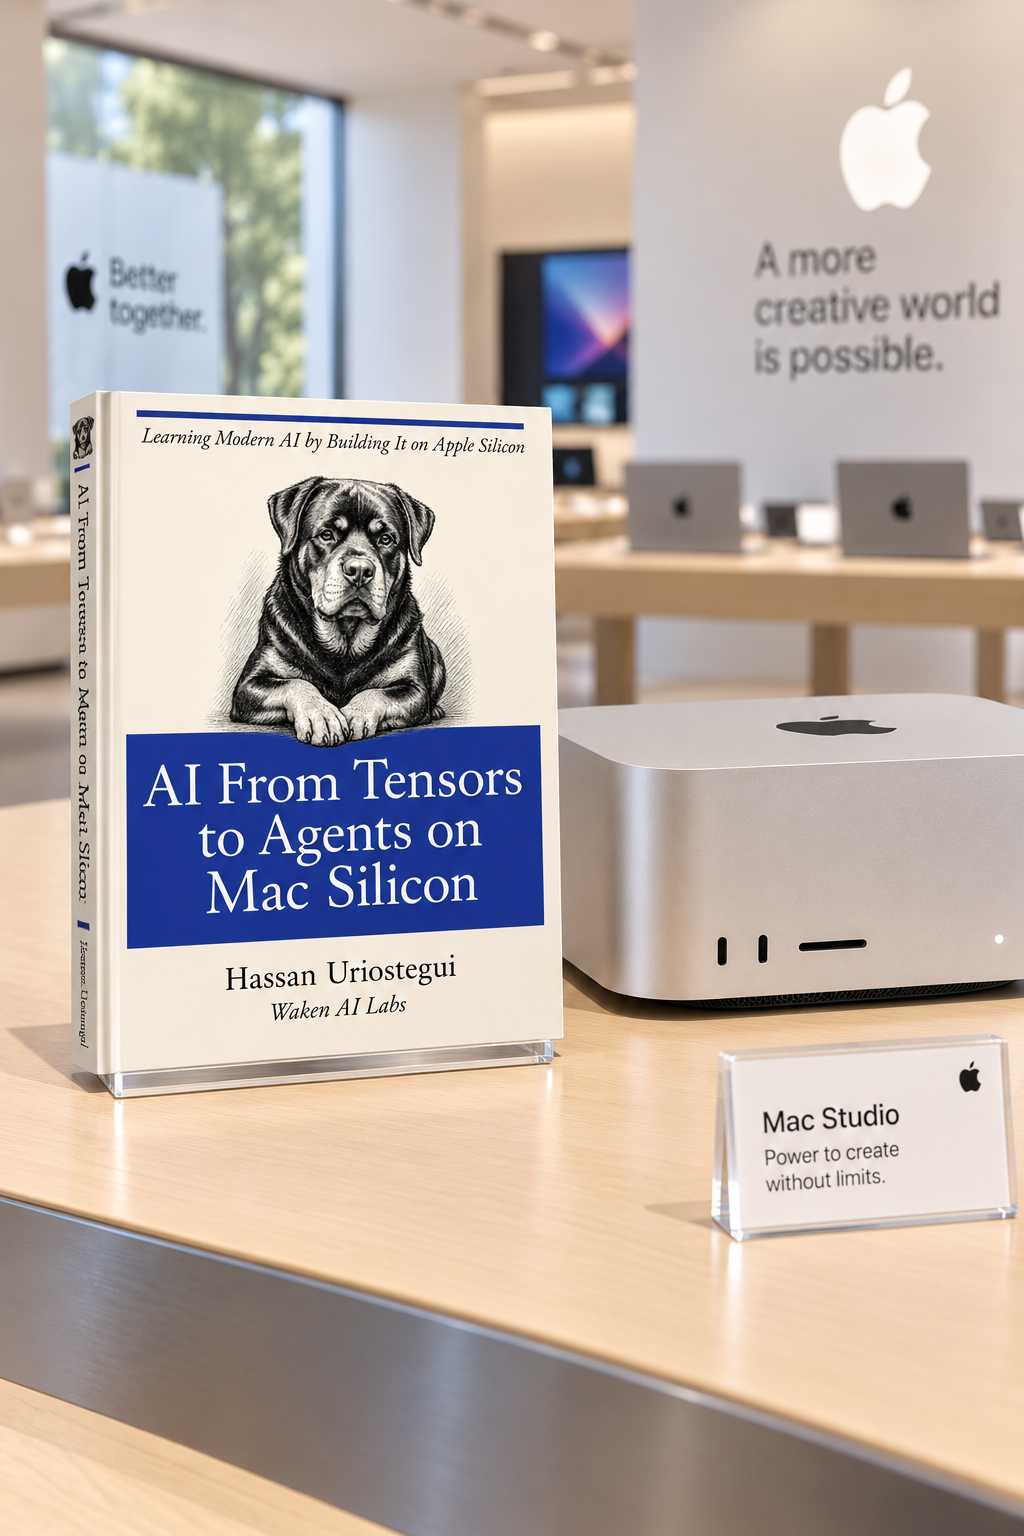
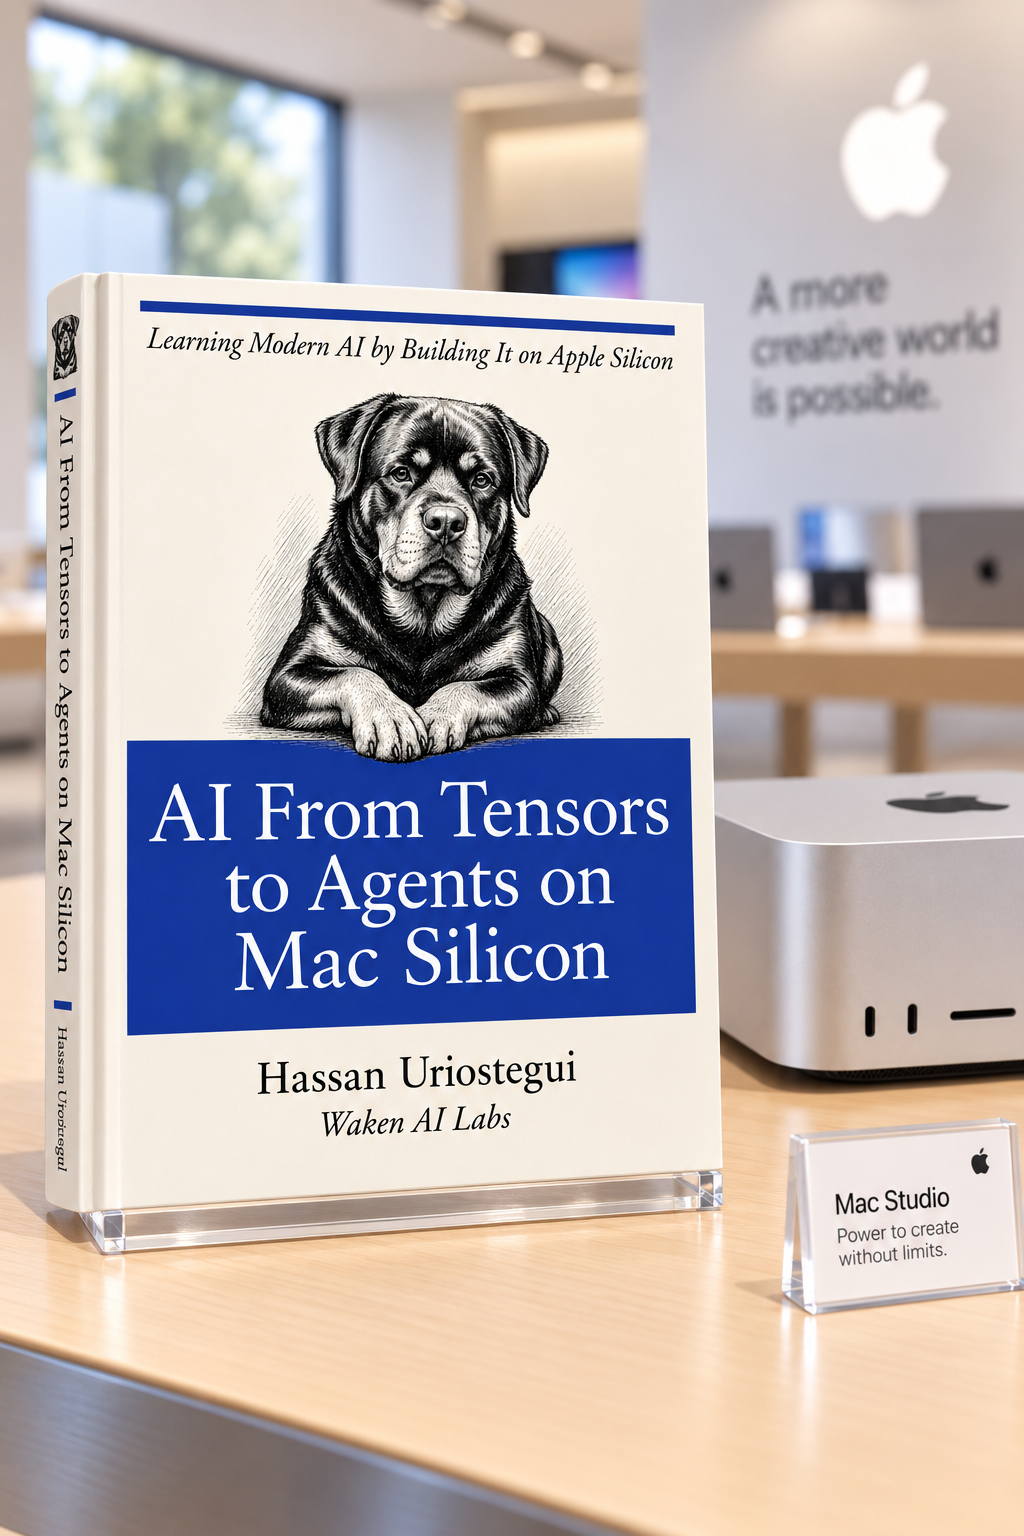
Differentiate Sparks callouts and refresh Mac Silicon cover

diff --git a/index.html b/index.html
@@ -4386,6 +4386,45 @@ h1, h2, h3, h4, .identity-mark { font-family: var(--font-display) !important; }
   .home-chapter-icon .sparks-icon { width: 24px; height: 24px; }
 }
 
+/* Three distinct editorial bridges, with a shared readable action layout. */
+.ai-sparks-callout-inner, .ios-sparks-callout-inner, .writing-sparks-callout-inner {
+  position: relative;
+  isolation: isolate;
+  overflow: hidden;
+  border-radius: 20px;
+  padding: clamp(28px, 4vw, 52px);
+  padding-right: clamp(280px, 30%, 370px);
+}
+.ai-sparks-callout-inner { --bridge-accent: #f5b7df; --bridge-light: #bb69bc; background: radial-gradient(ellipse at 100% 50%, #67336766, transparent 65%), linear-gradient(120deg, #271735, #191126); }
+.ios-sparks-callout-inner { --bridge-accent: #d0c2ff; --bridge-light: #8b7bed; background: radial-gradient(ellipse at 95% 30%, #6d5cdf55, transparent 60%), linear-gradient(120deg, #1c1b3c, #141429); }
+.writing-sparks-callout-inner { --bridge-accent: #ffcfab; --bridge-light: #cb9268; background: radial-gradient(ellipse at 95% 70%, #ad6d3c44, transparent 60%), linear-gradient(120deg, #302225, #1d171f); }
+.sparks-bridge-kicker { display: block; color: var(--bridge-accent); font: 600 .68rem/1.5 var(--font-sans); letter-spacing: .16em; text-transform: uppercase; margin-bottom: 24px; }
+.ai-sparks-callout .sparks-callout-title, .ios-sparks-callout .sparks-callout-title, .writing-sparks-callout .sparks-callout-title { font-size: clamp(1.7rem, 2.8vw, 2.55rem); font-weight: 500; letter-spacing: -.035em; align-items: flex-start; }
+.ai-sparks-callout p, .ios-sparks-callout p, .writing-sparks-callout p { color: #d1c8d8; max-width: 58ch; }
+.ai-sparks-callout .sparks-callout-icon, .ios-sparks-callout .sparks-callout-icon, .writing-sparks-callout .sparks-callout-icon { background: transparent; color: var(--bridge-accent); }
+.ai-sparks-callout .home-tooling-link, .ios-sparks-callout .home-tooling-link, .writing-sparks-callout .home-tooling-link { color: var(--bridge-accent); margin-top: 8px; gap: 20px; }
+.sparks-bridge-art { position: absolute; right: 40px; top: 50%; width: 210px; height: 220px; transform: translateY(-50%); pointer-events: none; z-index: -1; }
+.sparks-bridge-art span { position: absolute; display: grid; place-items: center; inset: 28px; background: var(--bridge-light); border-radius: 24px; opacity: .12; box-shadow: 0 22px 40px #0002; }
+.sparks-bridge-art span:last-child { opacity: 1; background: linear-gradient(140deg, #ffffff18, #ffffff04); color: var(--bridge-accent); }
+.sparks-bridge-art .sparks-icon { width: 68px; height: 68px; fill: currentColor; opacity: .85; }
+.sparks-bridge-art--ai span { border-radius: 50%; }
+.sparks-bridge-art--ai span:first-child { transform: scale(1.4, .8) rotate(-35deg); }
+.sparks-bridge-art--ai span:nth-child(2) { transform: scale(.8, 1.4) rotate(-35deg); }
+.sparks-bridge-art--ai span:last-child { inset: 45px 40px; }
+.sparks-bridge-art--ios span:first-child { transform: translate(-22px, 12px) rotate(-14deg); }
+.sparks-bridge-art--ios span:nth-child(2) { transform: translate(18px, -14px) rotate(12deg); }
+.sparks-bridge-art--ios span:last-child { inset: 20px 40px; border-radius: 30px; }
+.sparks-bridge-art--writing span { border-radius: 4px 18px 4px 4px; }
+.sparks-bridge-art--writing span:first-child { transform: translate(18px, -12px) rotate(12deg); }
+.sparks-bridge-art--writing span:nth-child(2) { transform: translate(-16px, 10px) rotate(-12deg); }
+.sparks-bridge-art--writing span:last-child { transform: rotate(-4deg); }
+@media (max-width: 700px) {
+  .ai-sparks-callout-inner, .ios-sparks-callout-inner, .writing-sparks-callout-inner { padding: 28px 24px; border-radius: 16px; }
+  .sparks-bridge-art { display: none; }
+  .sparks-bridge-kicker { margin-bottom: 20px; font-size: .62rem; }
+  .sparks-callout-title { gap: .4em; }
+}
+
 
   </style>
 </head>
@@ -4560,9 +4599,11 @@ h1, h2, h3, h4, .identity-mark { font-family: var(--font-display) !important; }
 
   <section class="ai-sparks-callout" aria-labelledby="ai-sparks-heading">
     <div class="ai-sparks-callout-inner">
+      <span class="sparks-bridge-kicker">Explore intelligent systems</span>
       <h2 id="ai-sparks-heading" class="sparks-callout-title"><span class="sparks-callout-icon"><svg class="sparks-icon" viewBox="0 0 24 24" aria-hidden="true" focusable="false"><path d="M20 9V7c0-1.1-.9-2-2-2h-3c0-1.66-1.34-3-3-3S9 3.34 9 5H6c-1.1 0-2 .9-2 2v2c-1.66 0-3 1.34-3 3s1.34 3 3 3v4c0 1.1.9 2 2 2h12c1.1 0 2-.9 2-2v-4c1.66 0 3-1.34 3-3s-1.34-3-3-3m-2 10H6V7h12zm-9-6c-.83 0-1.5-.67-1.5-1.5S8.17 10 9 10s1.5.67 1.5 1.5S9.83 13 9 13m7.5-1.5c0 .83-.67 1.5-1.5 1.5s-1.5-.67-1.5-1.5.67-1.5 1.5-1.5 1.5.67 1.5 1.5M8 15h8v2H8z" /></svg></span>More AI Sparks</h2>
       <p>Explore agentic products, AI context systems, and prompt engineering experiments across the Sparks portfolio.</p>
       <a class="home-tooling-link" href="selected-work.html#work">More AI Sparks <span aria-hidden="true">→</span></a>
+      <div class="sparks-bridge-art sparks-bridge-art--ai" aria-hidden="true"><span></span><span></span><span><svg class="sparks-icon" viewBox="0 0 24 24" aria-hidden="true" focusable="false"><path d="M20 9V7c0-1.1-.9-2-2-2h-3c0-1.66-1.34-3-3-3S9 3.34 9 5H6c-1.1 0-2 .9-2 2v2c-1.66 0-3 1.34-3 3s1.34 3 3 3v4c0 1.1.9 2 2 2h12c1.1 0 2-.9 2-2v-4c1.66 0 3-1.34 3-3s-1.34-3-3-3m-2 10H6V7h12zm-9-6c-.83 0-1.5-.67-1.5-1.5S8.17 10 9 10s1.5.67 1.5 1.5S9.83 13 9 13m7.5-1.5c0 .83-.67 1.5-1.5 1.5s-1.5-.67-1.5-1.5.67-1.5 1.5-1.5 1.5.67 1.5 1.5M8 15h8v2H8z" /></svg></span></div>
     </div>
   </section>
 
@@ -4636,9 +4677,11 @@ h1, h2, h3, h4, .identity-mark { font-family: var(--font-display) !important; }
 
   <section class="ios-sparks-callout" aria-labelledby="ios-sparks-heading">
     <div class="ios-sparks-callout-inner">
+      <span class="sparks-bridge-kicker">Build native</span>
       <h2 id="ios-sparks-heading" class="sparks-callout-title"><span class="sparks-callout-icon"><svg class="sparks-icon" viewBox="0 0 24 24" aria-hidden="true" focusable="false"><path d="M15.5 1h-8C6.12 1 5 2.12 5 3.5v17C5 21.88 6.12 23 7.5 23h8c1.38 0 2.5-1.12 2.5-2.5v-17C18 2.12 16.88 1 15.5 1m-4 21c-.83 0-1.5-.67-1.5-1.5s.67-1.5 1.5-1.5 1.5.67 1.5 1.5-.67 1.5-1.5 1.5m4.5-4H7V4h9z" /></svg></span>More iOS Sparks</h2>
       <p>Build on three open-source Swift tools: SwiftSPM for package scaffolding, DataStore for encrypted persistence, and WebViewSwiftUI for bringing web content into native apps.</p>
       <a class="home-tooling-link" href="selected-work.html#ios-open-source">More iOS Sparks <span aria-hidden="true">→</span></a>
+      <div class="sparks-bridge-art sparks-bridge-art--ios" aria-hidden="true"><span></span><span></span><span><svg class="sparks-icon" viewBox="0 0 24 24" aria-hidden="true" focusable="false"><path d="M15.5 1h-8C6.12 1 5 2.12 5 3.5v17C5 21.88 6.12 23 7.5 23h8c1.38 0 2.5-1.12 2.5-2.5v-17C18 2.12 16.88 1 15.5 1m-4 21c-.83 0-1.5-.67-1.5-1.5s.67-1.5 1.5-1.5 1.5.67 1.5 1.5-.67 1.5-1.5 1.5m4.5-4H7V4h9z" /></svg></span></div>
     </div>
   </section>
 
@@ -4724,7 +4767,7 @@ h1, h2, h3, h4, .identity-mark { font-family: var(--font-display) !important; }
     </div>
   </section>
     <div class="books-grid">
-      <article class="book-card"><a href="https://www.lulu.com/shop/hassan-uriostegui/ai-from-tensors-to-agents-on-mac-silicon/hardcover/product-e7qy7gy.html?page=1&pageSize=4" target="_blank" rel="noopener noreferrer" class="book-cover-link" aria-label="View AI From Tensors to Agents on Mac Silicon"><img src="assets/ai-from-tensors-to-agents-cover.160621a33505.webp" width="800" height="1200" decoding="async" loading="lazy" alt="AI From Tensors to Agents on Mac Silicon" class="book-cover book-cover--portrait" /></a>
+      <article class="book-card"><a href="https://www.lulu.com/shop/hassan-uriostegui/ai-from-tensors-to-agents-on-mac-silicon/hardcover/product-e7qy7gy.html?page=1&pageSize=4" target="_blank" rel="noopener noreferrer" class="book-cover-link" aria-label="View AI From Tensors to Agents on Mac Silicon"><img src="assets/ai-from-tensors-to-agents-cover.c275b3bbead2.webp" width="800" height="1200" decoding="async" loading="lazy" alt="AI From Tensors to Agents on Mac Silicon" class="book-cover book-cover--portrait" /></a>
         <span class="year">2026 • English</span>
         <h3>AI From Tensors to Agents on Mac Silicon</h3>
         <p class="subtitle">Learning Modern AI by Learning It on Apple Silicon</p>
@@ -4743,9 +4786,11 @@ h1, h2, h3, h4, .identity-mark { font-family: var(--font-display) !important; }
 
   <section class="writing-sparks-callout" aria-labelledby="writing-sparks-heading">
     <div class="writing-sparks-callout-inner">
+      <span class="sparks-bridge-kicker">Read the field notes</span>
       <h2 id="writing-sparks-heading" class="sparks-callout-title"><span class="sparks-callout-icon"><svg class="sparks-icon" viewBox="0 0 24 24" aria-hidden="true" focusable="false"><path d="M19 5v14H5V5zm0-2H5c-1.1 0-2 .9-2 2v14c0 1.1.9 2 2 2h14c1.1 0 2-.9 2-2V5c0-1.1-.9-2-2-2 M14 17H7v-2h7zm3-4H7v-2h10zm0-4H7V7h10z" /></svg></span>More Technical Writing</h2>
       <p>Read practical notes from building AI systems, Swift tools, and creative workflows—shared to make the decisions, trade-offs, and lessons reusable.</p>
       <a class="home-tooling-link" href="selected-work.html#technical-writing">More Technical Writing <span aria-hidden="true">→</span></a>
+      <div class="sparks-bridge-art sparks-bridge-art--writing" aria-hidden="true"><span></span><span></span><span><svg class="sparks-icon" viewBox="0 0 24 24" aria-hidden="true" focusable="false"><path d="M19 5v14H5V5zm0-2H5c-1.1 0-2 .9-2 2v14c0 1.1.9 2 2 2h14c1.1 0 2-.9 2-2V5c0-1.1-.9-2-2-2 M14 17H7v-2h7zm3-4H7v-2h10zm0-4H7V7h10z" /></svg></span></div>
     </div>
   </section>
 

diff --git a/profile.html b/profile.html
@@ -4386,6 +4386,45 @@ h1, h2, h3, h4, .identity-mark { font-family: var(--font-display) !important; }
   .home-chapter-icon .sparks-icon { width: 24px; height: 24px; }
 }
 
+/* Three distinct editorial bridges, with a shared readable action layout. */
+.ai-sparks-callout-inner, .ios-sparks-callout-inner, .writing-sparks-callout-inner {
+  position: relative;
+  isolation: isolate;
+  overflow: hidden;
+  border-radius: 20px;
+  padding: clamp(28px, 4vw, 52px);
+  padding-right: clamp(280px, 30%, 370px);
+}
+.ai-sparks-callout-inner { --bridge-accent: #f5b7df; --bridge-light: #bb69bc; background: radial-gradient(ellipse at 100% 50%, #67336766, transparent 65%), linear-gradient(120deg, #271735, #191126); }
+.ios-sparks-callout-inner { --bridge-accent: #d0c2ff; --bridge-light: #8b7bed; background: radial-gradient(ellipse at 95% 30%, #6d5cdf55, transparent 60%), linear-gradient(120deg, #1c1b3c, #141429); }
+.writing-sparks-callout-inner { --bridge-accent: #ffcfab; --bridge-light: #cb9268; background: radial-gradient(ellipse at 95% 70%, #ad6d3c44, transparent 60%), linear-gradient(120deg, #302225, #1d171f); }
+.sparks-bridge-kicker { display: block; color: var(--bridge-accent); font: 600 .68rem/1.5 var(--font-sans); letter-spacing: .16em; text-transform: uppercase; margin-bottom: 24px; }
+.ai-sparks-callout .sparks-callout-title, .ios-sparks-callout .sparks-callout-title, .writing-sparks-callout .sparks-callout-title { font-size: clamp(1.7rem, 2.8vw, 2.55rem); font-weight: 500; letter-spacing: -.035em; align-items: flex-start; }
+.ai-sparks-callout p, .ios-sparks-callout p, .writing-sparks-callout p { color: #d1c8d8; max-width: 58ch; }
+.ai-sparks-callout .sparks-callout-icon, .ios-sparks-callout .sparks-callout-icon, .writing-sparks-callout .sparks-callout-icon { background: transparent; color: var(--bridge-accent); }
+.ai-sparks-callout .home-tooling-link, .ios-sparks-callout .home-tooling-link, .writing-sparks-callout .home-tooling-link { color: var(--bridge-accent); margin-top: 8px; gap: 20px; }
+.sparks-bridge-art { position: absolute; right: 40px; top: 50%; width: 210px; height: 220px; transform: translateY(-50%); pointer-events: none; z-index: -1; }
+.sparks-bridge-art span { position: absolute; display: grid; place-items: center; inset: 28px; background: var(--bridge-light); border-radius: 24px; opacity: .12; box-shadow: 0 22px 40px #0002; }
+.sparks-bridge-art span:last-child { opacity: 1; background: linear-gradient(140deg, #ffffff18, #ffffff04); color: var(--bridge-accent); }
+.sparks-bridge-art .sparks-icon { width: 68px; height: 68px; fill: currentColor; opacity: .85; }
+.sparks-bridge-art--ai span { border-radius: 50%; }
+.sparks-bridge-art--ai span:first-child { transform: scale(1.4, .8) rotate(-35deg); }
+.sparks-bridge-art--ai span:nth-child(2) { transform: scale(.8, 1.4) rotate(-35deg); }
+.sparks-bridge-art--ai span:last-child { inset: 45px 40px; }
+.sparks-bridge-art--ios span:first-child { transform: translate(-22px, 12px) rotate(-14deg); }
+.sparks-bridge-art--ios span:nth-child(2) { transform: translate(18px, -14px) rotate(12deg); }
+.sparks-bridge-art--ios span:last-child { inset: 20px 40px; border-radius: 30px; }
+.sparks-bridge-art--writing span { border-radius: 4px 18px 4px 4px; }
+.sparks-bridge-art--writing span:first-child { transform: translate(18px, -12px) rotate(12deg); }
+.sparks-bridge-art--writing span:nth-child(2) { transform: translate(-16px, 10px) rotate(-12deg); }
+.sparks-bridge-art--writing span:last-child { transform: rotate(-4deg); }
+@media (max-width: 700px) {
+  .ai-sparks-callout-inner, .ios-sparks-callout-inner, .writing-sparks-callout-inner { padding: 28px 24px; border-radius: 16px; }
+  .sparks-bridge-art { display: none; }
+  .sparks-bridge-kicker { margin-bottom: 20px; font-size: .62rem; }
+  .sparks-callout-title { gap: .4em; }
+}
+
 
   </style>
 </head>

diff --git a/selected-work.html b/selected-work.html
@@ -4386,6 +4386,45 @@ h1, h2, h3, h4, .identity-mark { font-family: var(--font-display) !important; }
   .home-chapter-icon .sparks-icon { width: 24px; height: 24px; }
 }
 
+/* Three distinct editorial bridges, with a shared readable action layout. */
+.ai-sparks-callout-inner, .ios-sparks-callout-inner, .writing-sparks-callout-inner {
+  position: relative;
+  isolation: isolate;
+  overflow: hidden;
+  border-radius: 20px;
+  padding: clamp(28px, 4vw, 52px);
+  padding-right: clamp(280px, 30%, 370px);
+}
+.ai-sparks-callout-inner { --bridge-accent: #f5b7df; --bridge-light: #bb69bc; background: radial-gradient(ellipse at 100% 50%, #67336766, transparent 65%), linear-gradient(120deg, #271735, #191126); }
+.ios-sparks-callout-inner { --bridge-accent: #d0c2ff; --bridge-light: #8b7bed; background: radial-gradient(ellipse at 95% 30%, #6d5cdf55, transparent 60%), linear-gradient(120deg, #1c1b3c, #141429); }
+.writing-sparks-callout-inner { --bridge-accent: #ffcfab; --bridge-light: #cb9268; background: radial-gradient(ellipse at 95% 70%, #ad6d3c44, transparent 60%), linear-gradient(120deg, #302225, #1d171f); }
+.sparks-bridge-kicker { display: block; color: var(--bridge-accent); font: 600 .68rem/1.5 var(--font-sans); letter-spacing: .16em; text-transform: uppercase; margin-bottom: 24px; }
+.ai-sparks-callout .sparks-callout-title, .ios-sparks-callout .sparks-callout-title, .writing-sparks-callout .sparks-callout-title { font-size: clamp(1.7rem, 2.8vw, 2.55rem); font-weight: 500; letter-spacing: -.035em; align-items: flex-start; }
+.ai-sparks-callout p, .ios-sparks-callout p, .writing-sparks-callout p { color: #d1c8d8; max-width: 58ch; }
+.ai-sparks-callout .sparks-callout-icon, .ios-sparks-callout .sparks-callout-icon, .writing-sparks-callout .sparks-callout-icon { background: transparent; color: var(--bridge-accent); }
+.ai-sparks-callout .home-tooling-link, .ios-sparks-callout .home-tooling-link, .writing-sparks-callout .home-tooling-link { color: var(--bridge-accent); margin-top: 8px; gap: 20px; }
+.sparks-bridge-art { position: absolute; right: 40px; top: 50%; width: 210px; height: 220px; transform: translateY(-50%); pointer-events: none; z-index: -1; }
+.sparks-bridge-art span { position: absolute; display: grid; place-items: center; inset: 28px; background: var(--bridge-light); border-radius: 24px; opacity: .12; box-shadow: 0 22px 40px #0002; }
+.sparks-bridge-art span:last-child { opacity: 1; background: linear-gradient(140deg, #ffffff18, #ffffff04); color: var(--bridge-accent); }
+.sparks-bridge-art .sparks-icon { width: 68px; height: 68px; fill: currentColor; opacity: .85; }
+.sparks-bridge-art--ai span { border-radius: 50%; }
+.sparks-bridge-art--ai span:first-child { transform: scale(1.4, .8) rotate(-35deg); }
+.sparks-bridge-art--ai span:nth-child(2) { transform: scale(.8, 1.4) rotate(-35deg); }
+.sparks-bridge-art--ai span:last-child { inset: 45px 40px; }
+.sparks-bridge-art--ios span:first-child { transform: translate(-22px, 12px) rotate(-14deg); }
+.sparks-bridge-art--ios span:nth-child(2) { transform: translate(18px, -14px) rotate(12deg); }
+.sparks-bridge-art--ios span:last-child { inset: 20px 40px; border-radius: 30px; }
+.sparks-bridge-art--writing span { border-radius: 4px 18px 4px 4px; }
+.sparks-bridge-art--writing span:first-child { transform: translate(18px, -12px) rotate(12deg); }
+.sparks-bridge-art--writing span:nth-child(2) { transform: translate(-16px, 10px) rotate(-12deg); }
+.sparks-bridge-art--writing span:last-child { transform: rotate(-4deg); }
+@media (max-width: 700px) {
+  .ai-sparks-callout-inner, .ios-sparks-callout-inner, .writing-sparks-callout-inner { padding: 28px 24px; border-radius: 16px; }
+  .sparks-bridge-art { display: none; }
+  .sparks-bridge-kicker { margin-bottom: 20px; font-size: .62rem; }
+  .sparks-callout-title { gap: .4em; }
+}
+
 
   </style>
 </head>

diff --git a/generator/templates/css.py b/generator/templates/css.py
@@ -4388,3 +4388,44 @@ SIGNAL_STYLES += r'''
   .home-chapter-icon .sparks-icon { width: 24px; height: 24px; }
 }
 '''
+
+SIGNAL_STYLES += r'''
+/* Three distinct editorial bridges, with a shared readable action layout. */
+.ai-sparks-callout-inner, .ios-sparks-callout-inner, .writing-sparks-callout-inner {
+  position: relative;
+  isolation: isolate;
+  overflow: hidden;
+  border-radius: 20px;
+  padding: clamp(28px, 4vw, 52px);
+  padding-right: clamp(280px, 30%, 370px);
+}
+.ai-sparks-callout-inner { --bridge-accent: #f5b7df; --bridge-light: #bb69bc; background: radial-gradient(ellipse at 100% 50%, #67336766, transparent 65%), linear-gradient(120deg, #271735, #191126); }
+.ios-sparks-callout-inner { --bridge-accent: #d0c2ff; --bridge-light: #8b7bed; background: radial-gradient(ellipse at 95% 30%, #6d5cdf55, transparent 60%), linear-gradient(120deg, #1c1b3c, #141429); }
+.writing-sparks-callout-inner { --bridge-accent: #ffcfab; --bridge-light: #cb9268; background: radial-gradient(ellipse at 95% 70%, #ad6d3c44, transparent 60%), linear-gradient(120deg, #302225, #1d171f); }
+.sparks-bridge-kicker { display: block; color: var(--bridge-accent); font: 600 .68rem/1.5 var(--font-sans); letter-spacing: .16em; text-transform: uppercase; margin-bottom: 24px; }
+.ai-sparks-callout .sparks-callout-title, .ios-sparks-callout .sparks-callout-title, .writing-sparks-callout .sparks-callout-title { font-size: clamp(1.7rem, 2.8vw, 2.55rem); font-weight: 500; letter-spacing: -.035em; align-items: flex-start; }
+.ai-sparks-callout p, .ios-sparks-callout p, .writing-sparks-callout p { color: #d1c8d8; max-width: 58ch; }
+.ai-sparks-callout .sparks-callout-icon, .ios-sparks-callout .sparks-callout-icon, .writing-sparks-callout .sparks-callout-icon { background: transparent; color: var(--bridge-accent); }
+.ai-sparks-callout .home-tooling-link, .ios-sparks-callout .home-tooling-link, .writing-sparks-callout .home-tooling-link { color: var(--bridge-accent); margin-top: 8px; gap: 20px; }
+.sparks-bridge-art { position: absolute; right: 40px; top: 50%; width: 210px; height: 220px; transform: translateY(-50%); pointer-events: none; z-index: -1; }
+.sparks-bridge-art span { position: absolute; display: grid; place-items: center; inset: 28px; background: var(--bridge-light); border-radius: 24px; opacity: .12; box-shadow: 0 22px 40px #0002; }
+.sparks-bridge-art span:last-child { opacity: 1; background: linear-gradient(140deg, #ffffff18, #ffffff04); color: var(--bridge-accent); }
+.sparks-bridge-art .sparks-icon { width: 68px; height: 68px; fill: currentColor; opacity: .85; }
+.sparks-bridge-art--ai span { border-radius: 50%; }
+.sparks-bridge-art--ai span:first-child { transform: scale(1.4, .8) rotate(-35deg); }
+.sparks-bridge-art--ai span:nth-child(2) { transform: scale(.8, 1.4) rotate(-35deg); }
+.sparks-bridge-art--ai span:last-child { inset: 45px 40px; }
+.sparks-bridge-art--ios span:first-child { transform: translate(-22px, 12px) rotate(-14deg); }
+.sparks-bridge-art--ios span:nth-child(2) { transform: translate(18px, -14px) rotate(12deg); }
+.sparks-bridge-art--ios span:last-child { inset: 20px 40px; border-radius: 30px; }
+.sparks-bridge-art--writing span { border-radius: 4px 18px 4px 4px; }
+.sparks-bridge-art--writing span:first-child { transform: translate(18px, -12px) rotate(12deg); }
+.sparks-bridge-art--writing span:nth-child(2) { transform: translate(-16px, 10px) rotate(-12deg); }
+.sparks-bridge-art--writing span:last-child { transform: rotate(-4deg); }
+@media (max-width: 700px) {
+  .ai-sparks-callout-inner, .ios-sparks-callout-inner, .writing-sparks-callout-inner { padding: 28px 24px; border-radius: 16px; }
+  .sparks-bridge-art { display: none; }
+  .sparks-bridge-kicker { margin-bottom: 20px; font-size: .62rem; }
+  .sparks-callout-title { gap: .4em; }
+}
+'''

diff --git a/generator/generate.py b/generator/generate.py
@@ -529,9 +529,11 @@ def generate_ios_open_source_callout():
     return f'''
   <section class="ios-sparks-callout" aria-labelledby="ios-sparks-heading">
     <div class="ios-sparks-callout-inner">
+      <span class="sparks-bridge-kicker">Build native</span>
       <h2 id="ios-sparks-heading" class="sparks-callout-title"><span class="sparks-callout-icon">{sparks_icon("ios-open-source")}</span>More iOS Sparks</h2>
       <p>Build on three open-source Swift tools: SwiftSPM for package scaffolding, DataStore for encrypted persistence, and WebViewSwiftUI for bringing web content into native apps.</p>
       <a class="home-tooling-link" href="{SELECTED_WORK_PAGE}#ios-open-source">More iOS Sparks <span aria-hidden="true">→</span></a>
+      <div class="sparks-bridge-art sparks-bridge-art--ios" aria-hidden="true"><span></span><span></span><span>{sparks_icon('ios-open-source')}</span></div>
     </div>
   </section>
 '''
@@ -542,9 +544,11 @@ def generate_ai_sparks_callout():
     return f'''
   <section class="ai-sparks-callout" aria-labelledby="ai-sparks-heading">
     <div class="ai-sparks-callout-inner">
+      <span class="sparks-bridge-kicker">Explore intelligent systems</span>
       <h2 id="ai-sparks-heading" class="sparks-callout-title"><span class="sparks-callout-icon">{sparks_icon("work")}</span>More AI Sparks</h2>
       <p>Explore agentic products, AI context systems, and prompt engineering experiments across the Sparks portfolio.</p>
       <a class="home-tooling-link" href="{SELECTED_WORK_PAGE}#work">More AI Sparks <span aria-hidden="true">→</span></a>
+      <div class="sparks-bridge-art sparks-bridge-art--ai" aria-hidden="true"><span></span><span></span><span>{sparks_icon('work')}</span></div>
     </div>
   </section>
 '''
@@ -555,9 +559,11 @@ def generate_technical_writing_callout():
     return f'''
   <section class="writing-sparks-callout" aria-labelledby="writing-sparks-heading">
     <div class="writing-sparks-callout-inner">
+      <span class="sparks-bridge-kicker">Read the field notes</span>
       <h2 id="writing-sparks-heading" class="sparks-callout-title"><span class="sparks-callout-icon">{sparks_icon("technical-writing")}</span>More Technical Writing</h2>
       <p>Read practical notes from building AI systems, Swift tools, and creative workflows—shared to make the decisions, trade-offs, and lessons reusable.</p>
       <a class="home-tooling-link" href="{SELECTED_WORK_PAGE}#technical-writing">More Technical Writing <span aria-hidden="true">→</span></a>
+      <div class="sparks-bridge-art sparks-bridge-art--writing" aria-hidden="true"><span></span><span></span><span>{sparks_icon('technical-writing')}</span></div>
     </div>
   </section>
 '''
